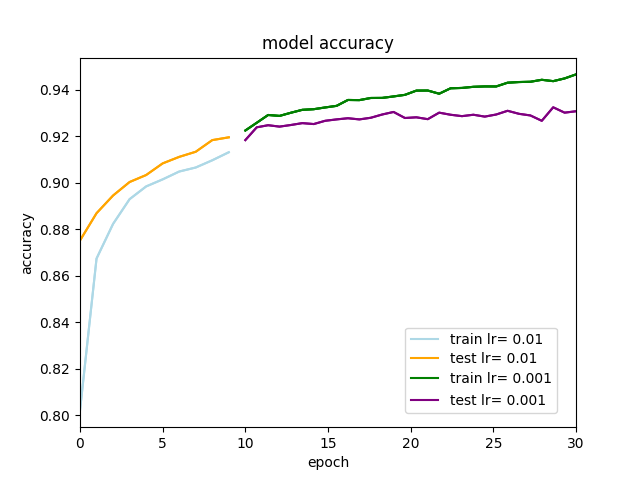
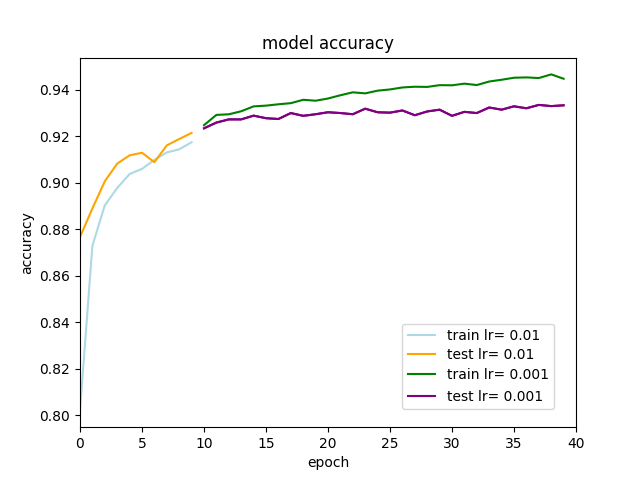
Final commit

diff --git a/train_model.py b/train_model.py
@@ -73,33 +73,27 @@ def make_plots(history, history2 = None):
         y1 = history.history['acc']
         plt.plot(x1,y1, c = 'lightblue', label = 'train lr= 0.01')
         y2 = history.history['val_acc']
-        x2 = np.linspace(0,9,10)
-        plt.plot(x2,y2, c = 'orange',  label = 'test lr= 0.01')
-        x3 = np.linspace(9,30,30)
+        plt.plot(x1,y2, c = 'orange',  label = 'test lr= 0.01')
+        x3 = np.linspace(10,39,30)
         y3 = history2.history['acc']
         plt.plot(x3,y3, c = 'green', label = 'train lr= 0.001')
         y4 = history2.history['val_acc']
-        x4 = np.linspace(9,30,30)
-        plt.plot(x4,y4, c = 'purple', label = 'test lr= 0.001')
+        plt.plot(x3,y4, c = 'purple', label = 'test lr= 0.001')
 
         plt.title('model accuracy')
         plt.ylabel('accuracy')
         plt.xlabel('epoch')
-        plt.xlim((0,30))
+        plt.xlim((0,40))
         plt.show()
 
-        x1 = np.linspace(0,9,10)
         y1 = history.history['loss']
         plt.plot(x1,y1, c = 'lightblue', label = 'train lr= 0.01')
         y2 = history.history['val_loss']
-        x2 = np.linspace(0,9,10)
-        plt.plot(x2,y2, c = 'orange',  label = 'test lr= 0.01')
-        x3 = np.linspace(9,30,30)
+        plt.plot(x1,y2, c = 'orange',  label = 'test lr= 0.01')
         y3 = history2.history['loss']
         plt.plot(x3,y3, c = 'green', label = 'train lr= 0.001')
         y4 = history2.history['val_loss']
-        x4 = np.linspace(9,30,30)
-        plt.plot(x4,y4, c = 'purple', label = 'test lr= 0.001')
+        plt.plot(x3,y4, c = 'purple', label = 'test lr= 0.001')
 
         plt.title('model loss')
         plt.ylabel('loss')
@@ -151,7 +145,7 @@ def main():
         
         #Update learning rate
         model.optimizer =Adam(lr = 0.001)
-        history2 = model.fit(x_train, y_train, validation_data= (x_test, y_test), epochs=20, batch_size=1024, shuffle = True)
+        history2 = model.fit(x_train, y_train, validation_data= (x_test, y_test), epochs=30, batch_size=1024, shuffle = True)
 
     else:
         

diff --git a/models.py b/models.py
@@ -58,7 +58,7 @@ def CNN2_dropout(num_classes):
     ## ouput layer
     x3_batch = BatchNormalization()(x2_pool)
      
-    x = Flatten()(x4_batch)
+    x = Flatten()(x3_batch)
     x = Dense(128, activation='relu')(x)
     x = Dropout(0.7)(x)
     preds = Dense(num_classes, activation='softmax')(x)
@@ -89,10 +89,17 @@ def CNN3_dropout(num_classes):
     x2_pool = MaxPooling2D(pool_size=(2, 2), padding = 'same')(x2_add)
      
      
-    ## ouput layer
+    ## third layer
     x3_batch = BatchNormalization()(x2_pool)
+    x3_conv = Conv2D(64, (3, 3), activation='relu', bias_initializer='RandomNormal', kernel_initializer='random_uniform', padding = 'same')(x3_batch)
+    x3_dp = Dropout(0.3) (x3_conv)
+    x3_add = add([x3_batch, x3_dp])
+    x3_pool = MaxPooling2D(pool_size=(2, 2), padding = 'same')(x3_add)
+
+    ## ouput layer
+    x4_batch = BatchNormalization()(x3_pool)
      
-    x = Flatten()(x3_batch)
+    x = Flatten()(x4_batch)
     x = Dense(128, activation='relu')(x)
     x = Dropout(0.7)(x)
     preds = Dense(num_classes, activation='softmax')(x)

diff --git a/README.md b/README.md
@@ -184,13 +184,22 @@ The final architecture is the following:
 	    x2_dp = Dropout(0.3) (x2_conv)
 	    x2_add = add([x2_batch, x2_dp])
 	    x2_pool = MaxPooling2D(pool_size=(2, 2), padding = 'same')(x2_add)
+	    
+	    
+	    ## third layer
+	
+	    x3_batch = BatchNormalization()(x2_pool)
+	    x3_conv = Conv2D(64, (3, 3), activation='relu', bias_initializer='RandomNormal', kernel_initializer='random_uniform', padding = 'same')(x3_batch)
+	    x3_dp = Dropout(0.3) (x3_conv)
+	    x3_add = add([x3_batch, x3_dp])
+	    x3_pool = MaxPooling2D(pool_size=(2, 2), padding = 'same')(x3_add)
 	
 	
 	    ## ouput layer
 	
-	    x3_batch = BatchNormalization()(x2_pool)
+	    x4_batch = BatchNormalization()(x3_pool)
 	
-	    x = Flatten()(x3_batch)
+	    x = Flatten()(x4_batch)
 	    x = Dense(128, activation='relu')(x)
 	    x = Dropout(0.7)(x)
 	    preds = Dense(num_classes, activation='softmax')(x)
@@ -323,7 +332,7 @@ Below, plots for both All-CNN and reduced All-CNN can be seen (first pair and se
 
 ### Model 5: 3 Conv + BatchNormalization + Dropout
 
-The last model implemented is the one with highest prediction rate. This model achieved a 93.24% accuracy. It was trained for 30 epochs that took 105 minutes. 
+The last model implemented is the one with highest prediction rate. This model achieved a 93.24% accuracy. It was trained for 40 epochs that took around 100 minutes. 
 
 A higher accuracy was achived by decreasing the learning rate from 0.01 to 0.001 after the first 10 epochs. In the images below the accuracy and the loss for both the training and test set can be observed. The accuracy of the training set increases very slowly after epoch 20. In the same way, the loss function 
 remains constant after that epoch.
@@ -344,7 +353,7 @@ CNN2 + BatchNorm + Skip + Dropout| 440,910 | 50.37 | 60.44 | 92.37% |
 CNN3 + BatchNorm + Skip + Dropout  | 207,758  | 57.28  |  68.74  | 92.75% |
 All-CNN | 1,248,202  | 374.76 |  562.14   | 92.36% |
 reduced All-CNN |   139,634  | 62.78  |  94.17   | 92.54%|
-3 layer CNN  | 192,218  |  69.73  | 139.46 |  **93.24%** |
+3 layer CNN  | 192,218  | 100.63  | 150.95 |  **93.24%** |
 
 ## Classifying objects in video
 This section is dedicated to the demo program implemented. The program detects objects in video files and classifies them using the model that achieved the highest prediction rate on the Fashion-MNIST dataset, Model 5.
@@ -369,7 +378,7 @@ The most efficient model took around 28s per epoch to be trained. However, the p
 
 It has also been observed, that a network can become more efficient by reducing the number of filters. This is observed by comparing the results of All-CNN to the proposed model, reduced All-CNN. The results in the performance analysis section show that the reduced network achieves similar performance to the original one. At the same time, the computational time is reduced by over 80%.
 
-After investigating how these architectures perform, the model that achieved the highest performance was built. The prediction rate for Model 5 is 93.24% and computational time is a bit bigger.
+After investigating how these architectures perform, the model that achieved the highest performance was built. The prediction rate for Model 5 is 93.24%. However, the computational time is significantly bigger than for the other models.
 
 Data augmentation was tested but not included as it did not seem to improve the immediate performance of the models. For making a difference, the models should probably have been trained for more epochs when including data augmentation. As the computational time was a constraint this option was dismissed. 
 
